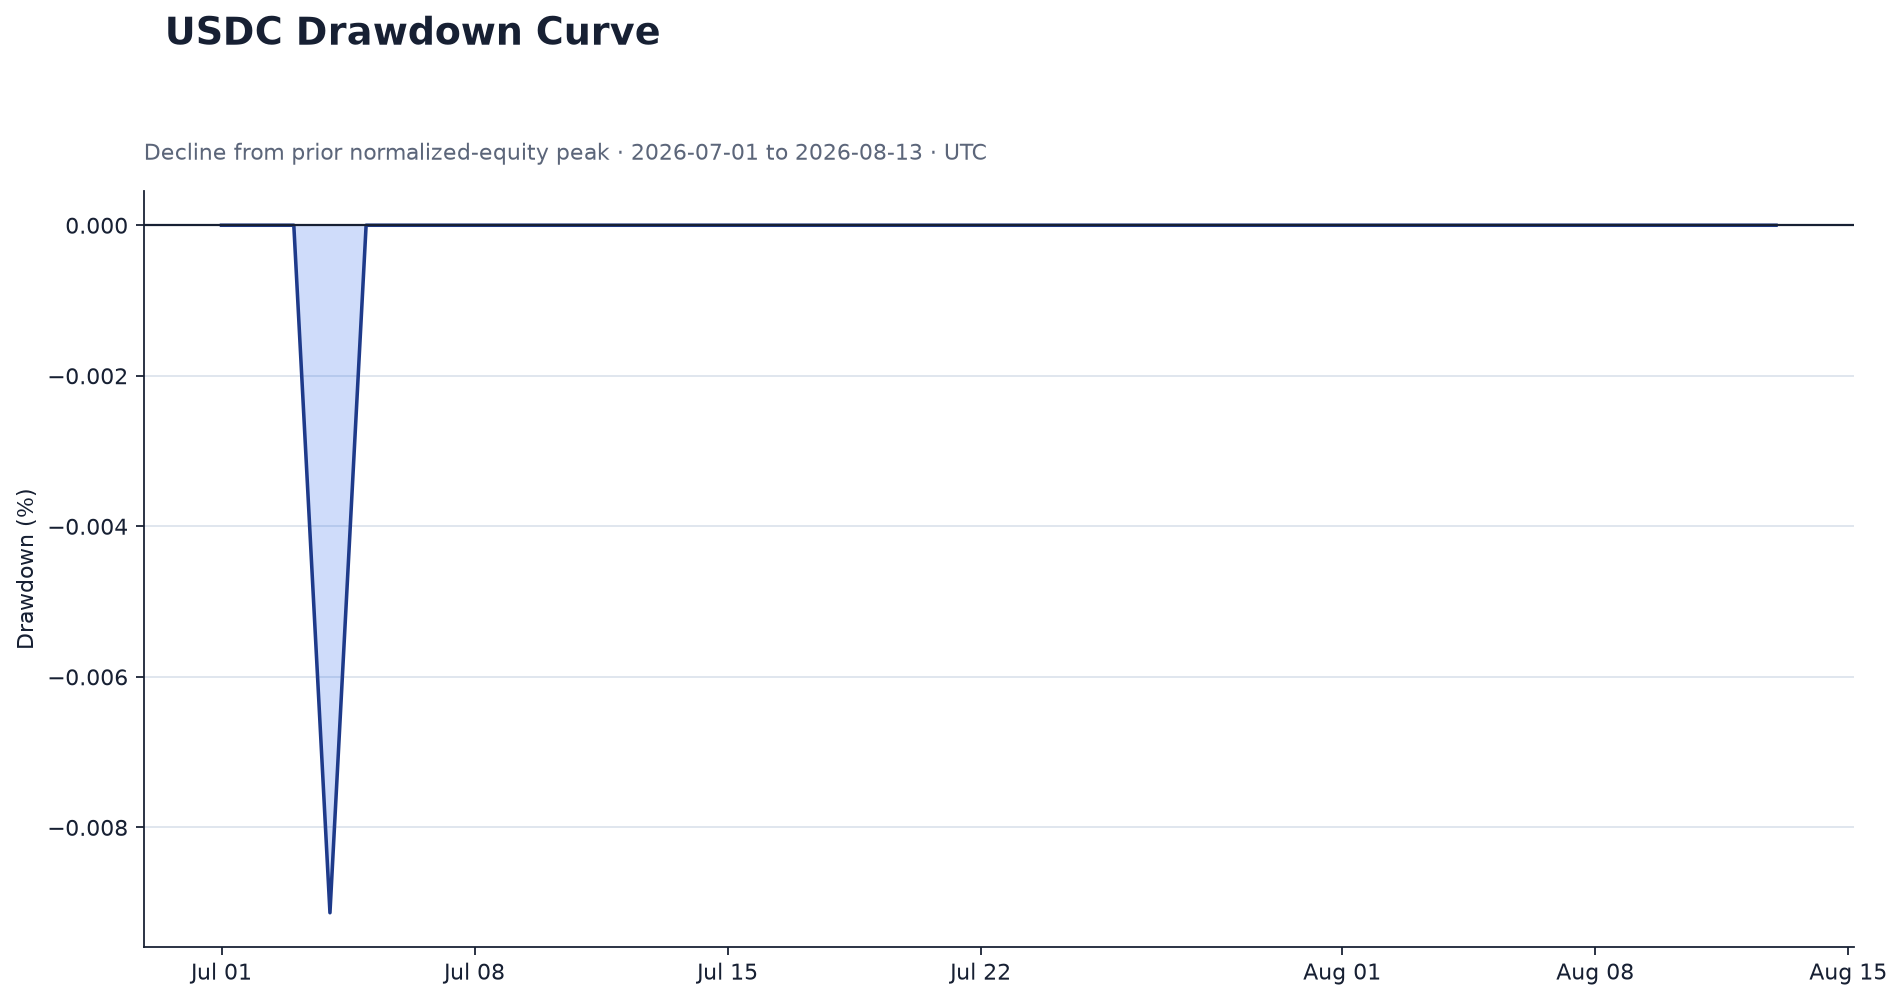
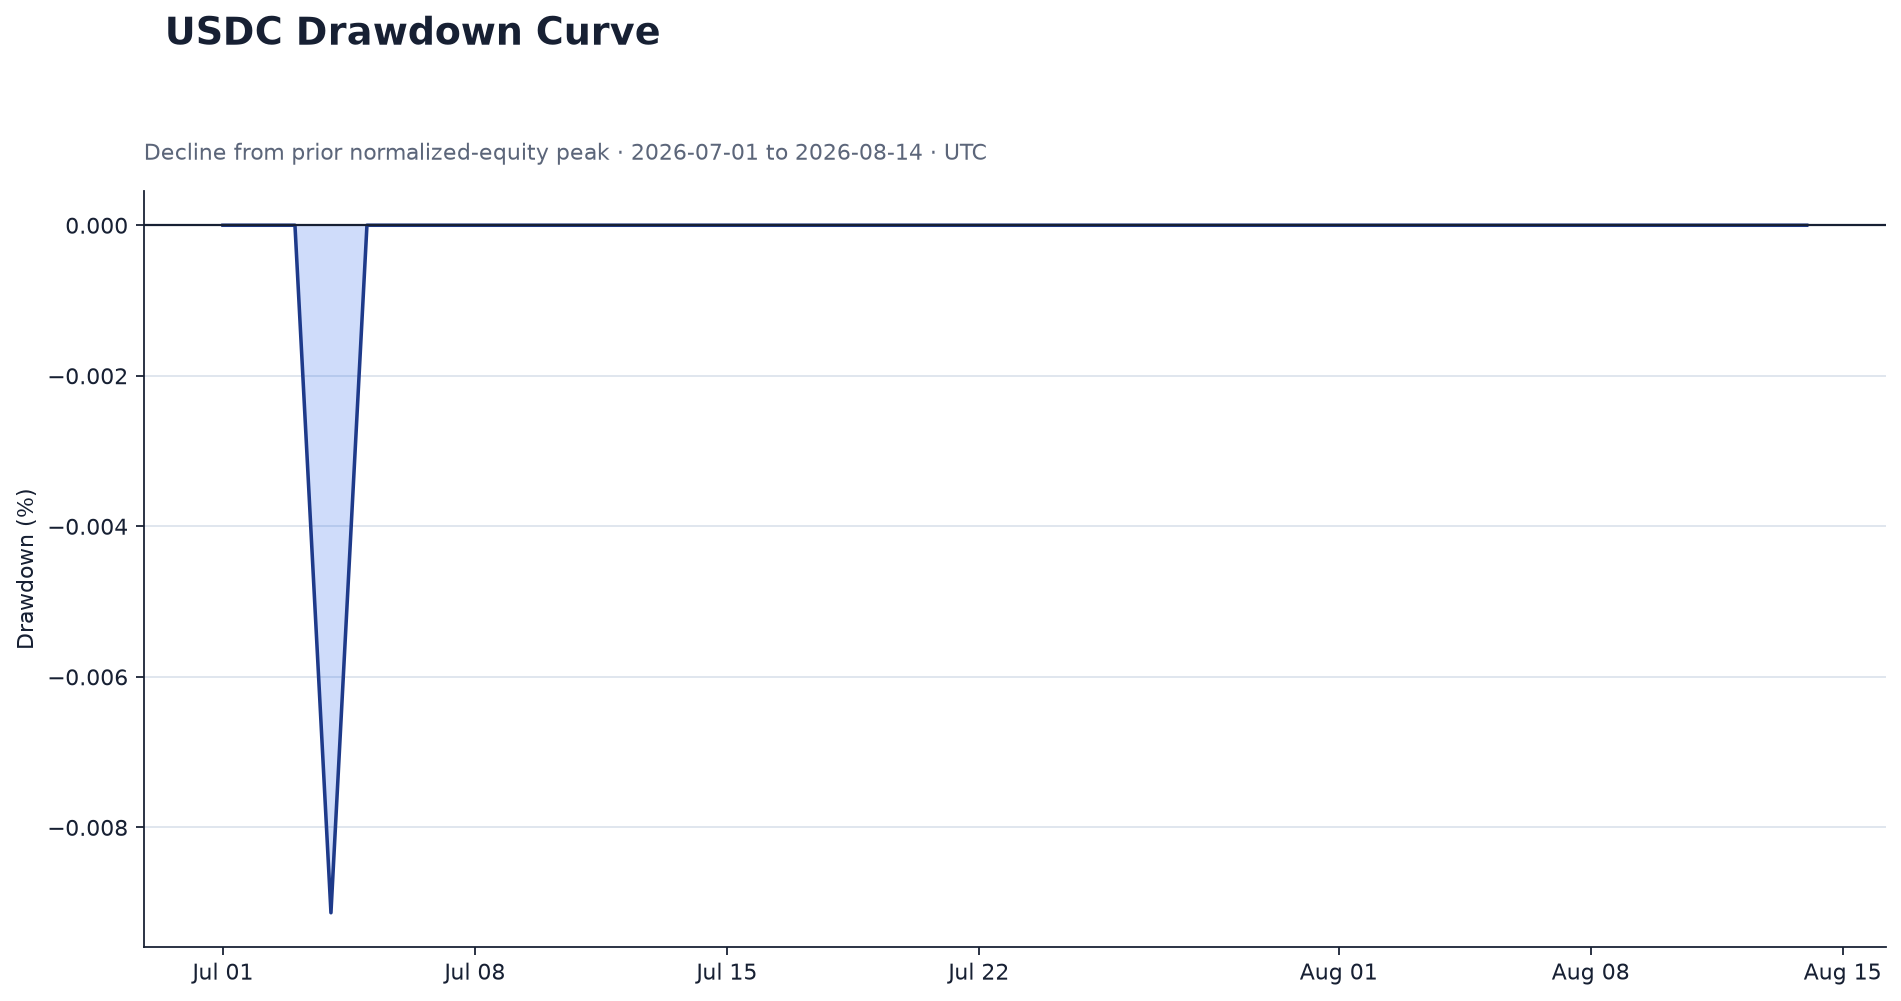
chore: update USDC performance

diff --git a/reports/performance_summary.md b/reports/performance_summary.md
@@ -1,7 +1,7 @@
 # Performance Summary
 
-Generated at: **2026-08-13T00:10:12Z**<br>
-Coverage: **2026-07-01 to 2026-08-13 (UTC)**<br>
+Generated at: **2026-08-14T00:10:08Z**<br>
+Coverage: **2026-07-01 to 2026-08-14 (UTC)**<br>
 Scope: **Daily USDC USD-M Futures realized performance**
 
 Absolute account values are not published. USD-M Futures transfers are excluded from trading return.
@@ -9,30 +9,29 @@ Sharpe and Sortino use private total daily returns including unrealized PnL; unr
 
 | Metric | Value |
 |---|---:|
-| Cumulative Return | 3.55% |
+| Cumulative Return | 3.66% |
 | Latest Daily Return | 0.00% |
-| Annualized Return | 36.43% |
-| Annualized Volatility | 1.31% |
-| Sharpe Ratio | 6.092025 |
-| Sortino Ratio | 10.811215 |
+| Annualized Return | 33.83% |
+| Annualized Volatility | 1.32% |
+| Sharpe Ratio | 5.950726 |
+| Sortino Ratio | 10.666612 |
 | Maximum Drawdown | -0.01% |
-| Calmar Ratio | 3988.021875 |
-| Win Rate | 97.22% |
-| Profit Factor | 1441.298823 |
-| Total Realized Pnl Usdc | 156.203299 |
+| Calmar Ratio | 3704.219318 |
+| Win Rate | 97.30% |
+| Profit Factor | 1485.483905 |
+| Total Realized Pnl Usdc | 161.005499 |
 | Total Commission Usdc | -0.075227 |
-| Total Funding Fee Usdc | 1.660035 |
-| Total Net Pnl Usdc | 157.788106 |
-| Number Of Trading Days | 36 |
-| Number Of Trades | 1114 |
-| Valid Return Days | 41 |
-| Excluded Return Days | 3 |
+| Total Funding Fee Usdc | 1.698414 |
+| Total Net Pnl Usdc | 162.628685 |
+| Number Of Trading Days | 37 |
+| Number Of Trades | 1146 |
+| Valid Return Days | 45 |
+| Excluded Return Days | 0 |
 | Annualization Factor | 365 |
 
 ## Warnings and coverage notes
 
 - Non-performance income types were treated as capital adjustments: COIN_SWAP_DEPOSIT
-- 3 day(s) were excluded from ratios because the reconstructed capital base was invalid.
 - Sharpe and Sortino include unrealized PnL and begin on 2026-07-06 because earlier official equity snapshots are unavailable.
 
 ## Definitions
